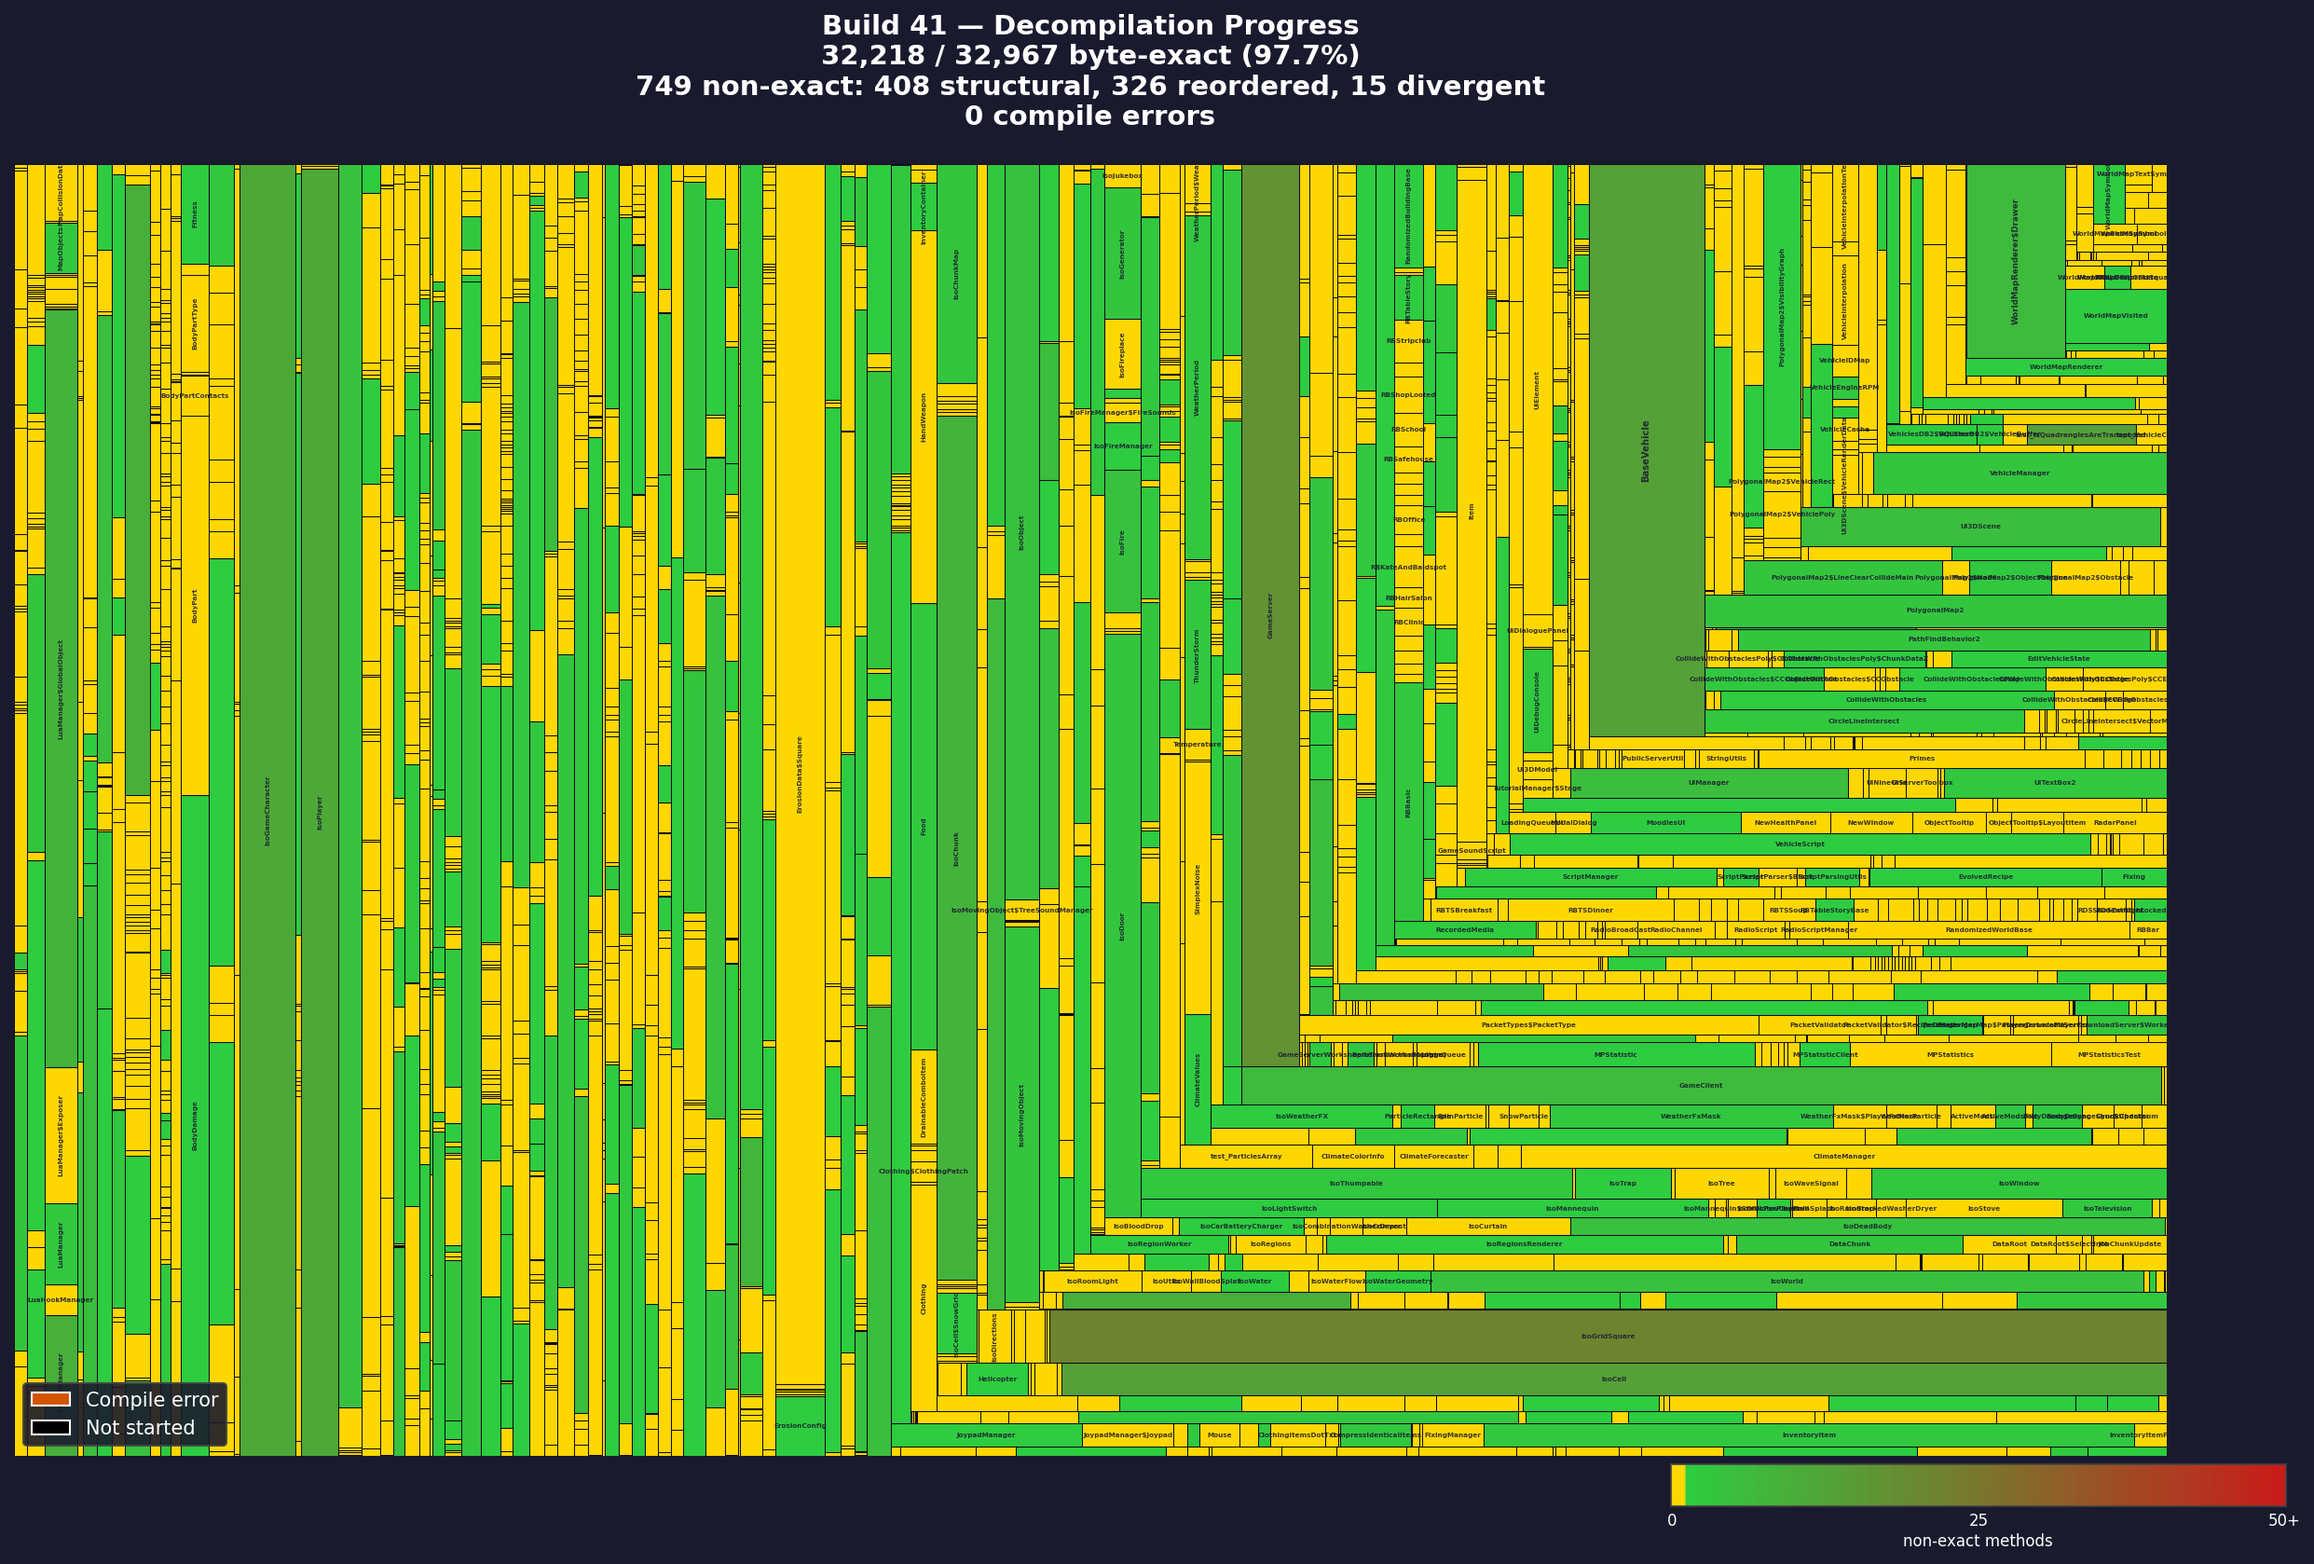
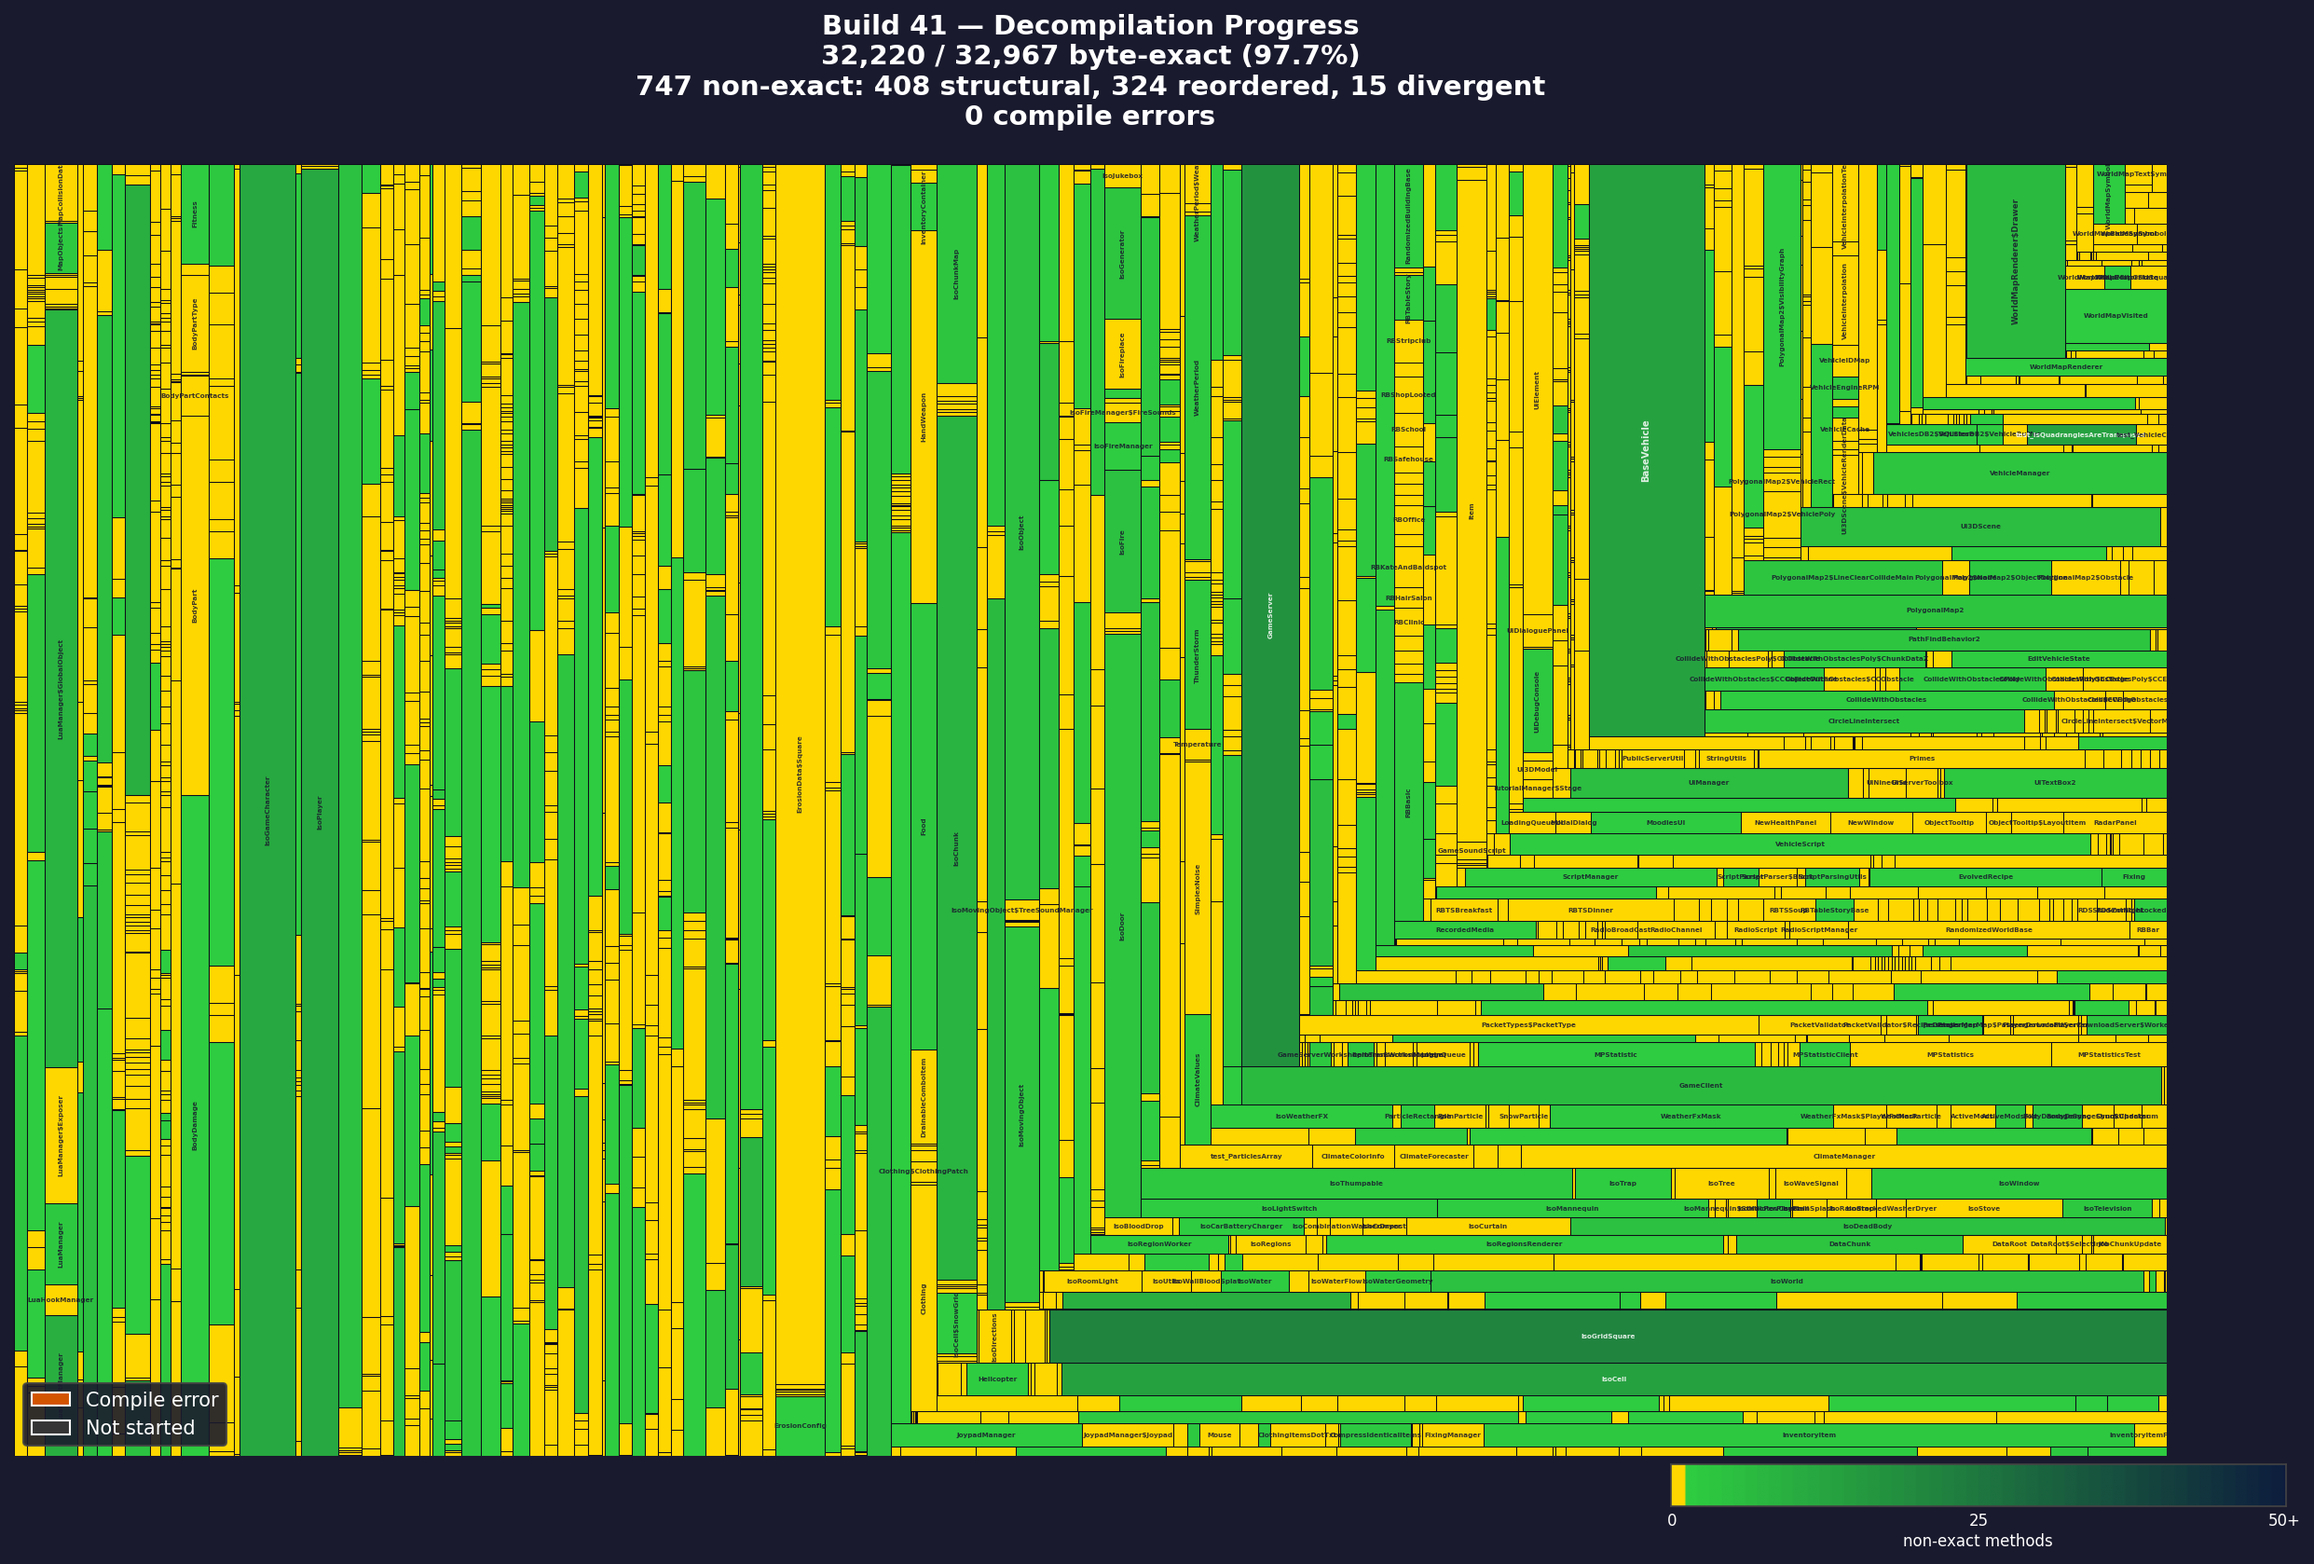
fix: use bright purple for compile error blocks to distinguish from red

diff --git a/scripts/generate_progress_image.py b/scripts/generate_progress_image.py
@@ -23,7 +23,7 @@ GRADIENT_RED = np.array([0.800, 0.100, 0.100])       # #CC1A1A
 GRADIENT_MAX = 50
 
 COLOR_NOT_STARTED = "#000000"
-COLOR_NOT_COMPILED = "#D35400"
+COLOR_NOT_COMPILED = "#CC00FF"  # bright purple
 
 
 def _gradient_color(non_exact: int) -> str:
